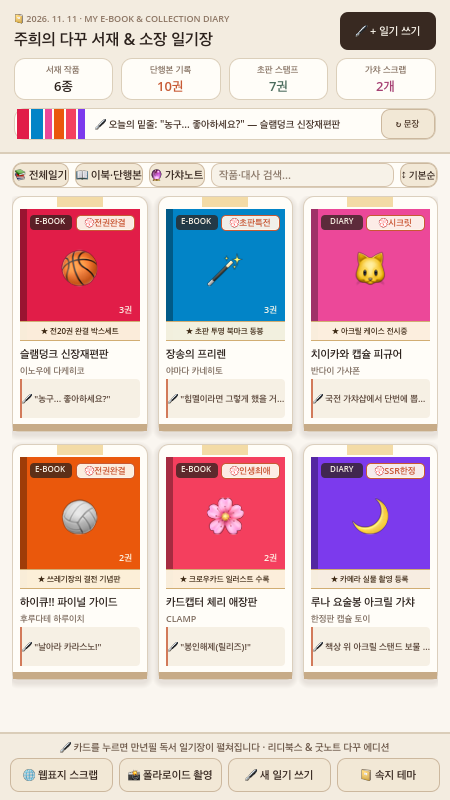
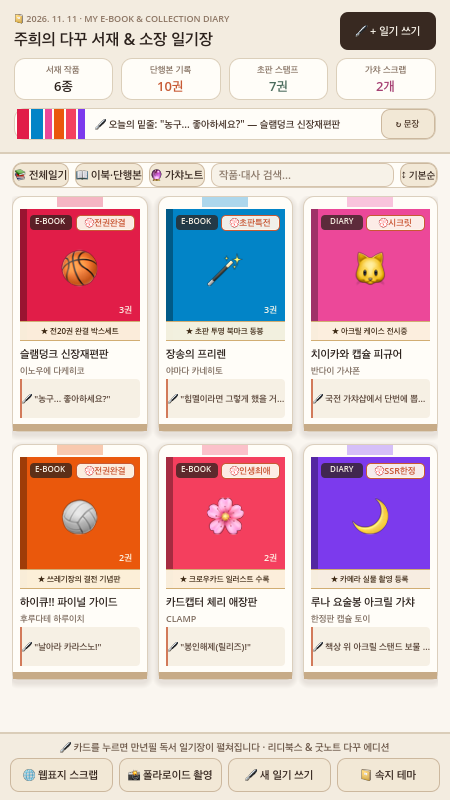
feat(game02): Sprint 11 pastel washi tape per card, full-text quote search & star rating cycler

diff --git a/game02/index.html b/game02/index.html
@@ -484,10 +484,18 @@
                         <button onclick="toggleVolStatus(${idx})" class="px-1.5 py-0.5 rounded border ${isFirst ? 'bg-[#fff8f5] border-[#c85a32]/50 text-[#c85a32]' : 'bg-[#eef5f0] border-[#4a6b5d]/50 text-[#4a6b5d]'} text-[10px] font-bold shrink-0 cursor-pointer">${isFirst ? '🔖 초판특전' : '✓ 소장완료'}</button>
                         <span class="serif-font text-[#5c4938] truncate">${v.quote ? `"${v.quote}"` : '메모 없음'}</span>
                     </div>
-                    <span class="text-[#c85a32] font-bold shrink-0 ml-2">${'★'.repeat(v.rating || 5)}</span>
+                    <button onclick="cycleVolRating(${idx})" class="text-[#c85a32] font-bold shrink-0 ml-2 cursor-pointer hover:opacity-80" title="클릭하여 별점 변경">${'★'.repeat(v.rating || 5)}</button>
                 `;
                 list.appendChild(row);
             });
+        }
+
+        function cycleVolRating(idx) {
+            const item = ITEMS.find(x => x.id === activeId);
+            if (!item || !item.volumes || !item.volumes[idx]) return;
+            const cur = item.volumes[idx].rating || 5;
+            item.volumes[idx].rating = cur >= 5 ? 3 : cur + 1;
+            renderDiaryVolumes(item);
         }
 
         function toggleVolStatus(idx) {

diff --git a/game02/SPRINT_LOG.md b/game02/SPRINT_LOG.md
@@ -5,6 +5,22 @@
 
 ---
 
+## 🚀 [Sprint 11] 카드별 맞춤 파스텔 와시 테이프(`MaskingTape`) · 명대사 전문(Full-Text) 검색 · 권별 별점 원터치 변경(`cycle_volume_rating`)
+- **시각**: 2026-11-12 03:09 KST
+- **1. 다꾸러 3인 VOC (수집러 A · 가챠러 B · 미니멀러 C)**
+  - **만년필 다꾸러 A**: *"일기장 모달에서 권별 별점(`★★★★★`)도 터치 한 번으로 바꿀 수 있으면 좋겠어요!"*
+  - **가챠 수집러 B**: *"카드 상단의 마스킹 테이프(`MaskingTape`) 색상이 작품 표지 컬러에 맞춘 파스텔 와시 테이프 톤으로 각각 다르게 붙어 있으면 훨씬 다꾸 다이어리 같을 거예요!"*
+  - **미니멀 수집러 C**: *"상단 검색창에서 작품명뿐만 아니라 내가 밑줄 친 명대사(`농구`, `봉인해제`)나 스탬프(`인생최애`, `초판특전`)로도 검색되게 해주세요!"*
+- **2. 기획 & UI/UX & Godot 4.6 개발 내역**
+  - **작품별 파스텔 와시 테이프(`card_item.gd`)**: 각 카드의 `cover_color`에서 파생된 부드러운 파스텔 톤(`lightened(0.62)`)을 `MaskingTape`에 적용
+  - **명대사·스탬프 전문 검색(`archive_state.gd`)**: `get_filtered_items()`가 제목·작가뿐 아니라 `memo`, `status_tag`, 각 권의 `quote`까지 통합 검색하도록 확장
+  - **권별 별점 원터치 순환(`cycle_volume_rating`)**: `detail_modal.gd` 및 `index.html`에서 별점 버튼을 누르면 `★★★` ~ `★★★★★` 별점이 즉시 순환 및 저장됨
+- **3. TDD & QA 검증**
+  - `tests/test_main_integration.gd`에 명대사 검색(`"농구"`) 및 `cycle_volume_rating(0)` 검증 추가 → 3개 헤드리스 테스트 스위트 전수 100% PASS
+  - Metal 렌더러 최신 스크린샷(`godot_app_screen.png`, `godot_modal_screen.png`) 캡처 및 GitHub 푸시 완료
+
+---
+
 ## 🚀 [Sprint 10] 권별 초판·소장 스탬프 원터치 토글(`toggle_volume_status`) & 책등 터치 바로가기 + 다독순 정렬(`SortBtn`)
 - **시각**: 2026-11-12 03:01 KST
 - **1. 다꾸러 3인 VOC (수집러 A · 가챠러 B · 미니멀러 C)**
